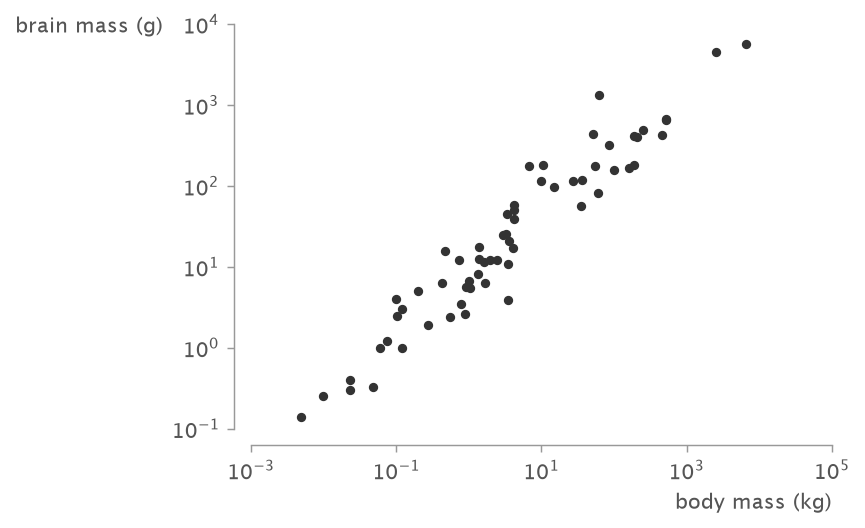
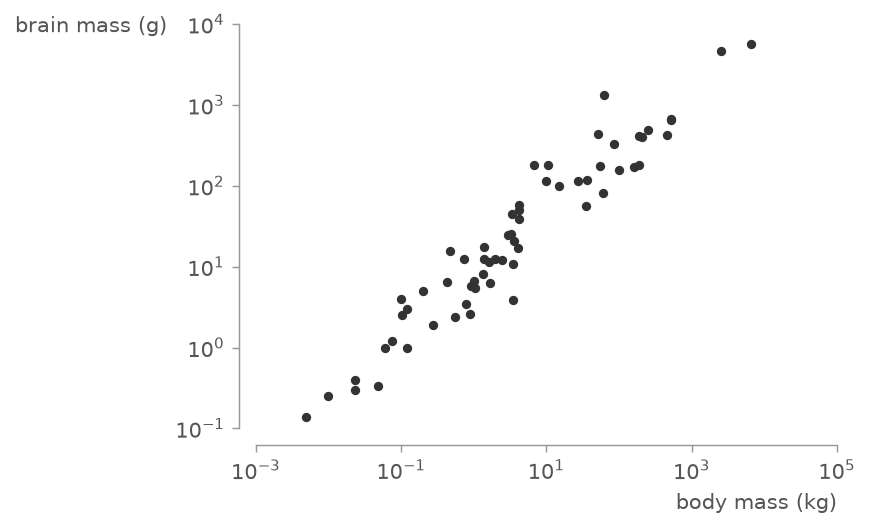
fix(examples): drop the OS fonts for matplotlib's bundled DejaVu Sans
Lucida Grande is macOS-only, so the gallery rendered differently off a
Mac and its missing 400 face triggered a findfont fallback warning.
matplotlib ships DejaVu Sans, so relying on the default renders the
same everywhere with no warning. This drops the whole rcParams block
(font settings and some disabled comment-experiments) and reverts the
font.weight hack. All README figures regenerated in the default font.

Claude-Session: https://claude.ai/code/session_01Uh6i7ap1JFji4ipqX22X9D

diff --git a/examples/gallery.py b/examples/gallery.py
@@ -21,18 +21,6 @@ from matplotlib.patches import Rectangle
 
 import vanzelfsprekend as vzs
 
-matplotlib.rcParams.update(
-    {
-        "font.family": "sans-serif",
-        "font.sans-serif": ["Lucida Grande", "DejaVu Sans"],
-        "font.size": 10,
-        "font.weight": 500,  # the sans faces lack a 400 face; ask for 500 directly
-        # "svg.fonttype": "none",  # keep the end labels as real text in the SVG
-        # "figure.facecolor": "none",
-        # "axes.facecolor": "none",
-    }
-)
-
 DATA = Path(__file__).parent / "data"
 OUTPUT = Path(__file__).parent / "output"
 DOCS = Path(__file__).parents[1] / "docs"
